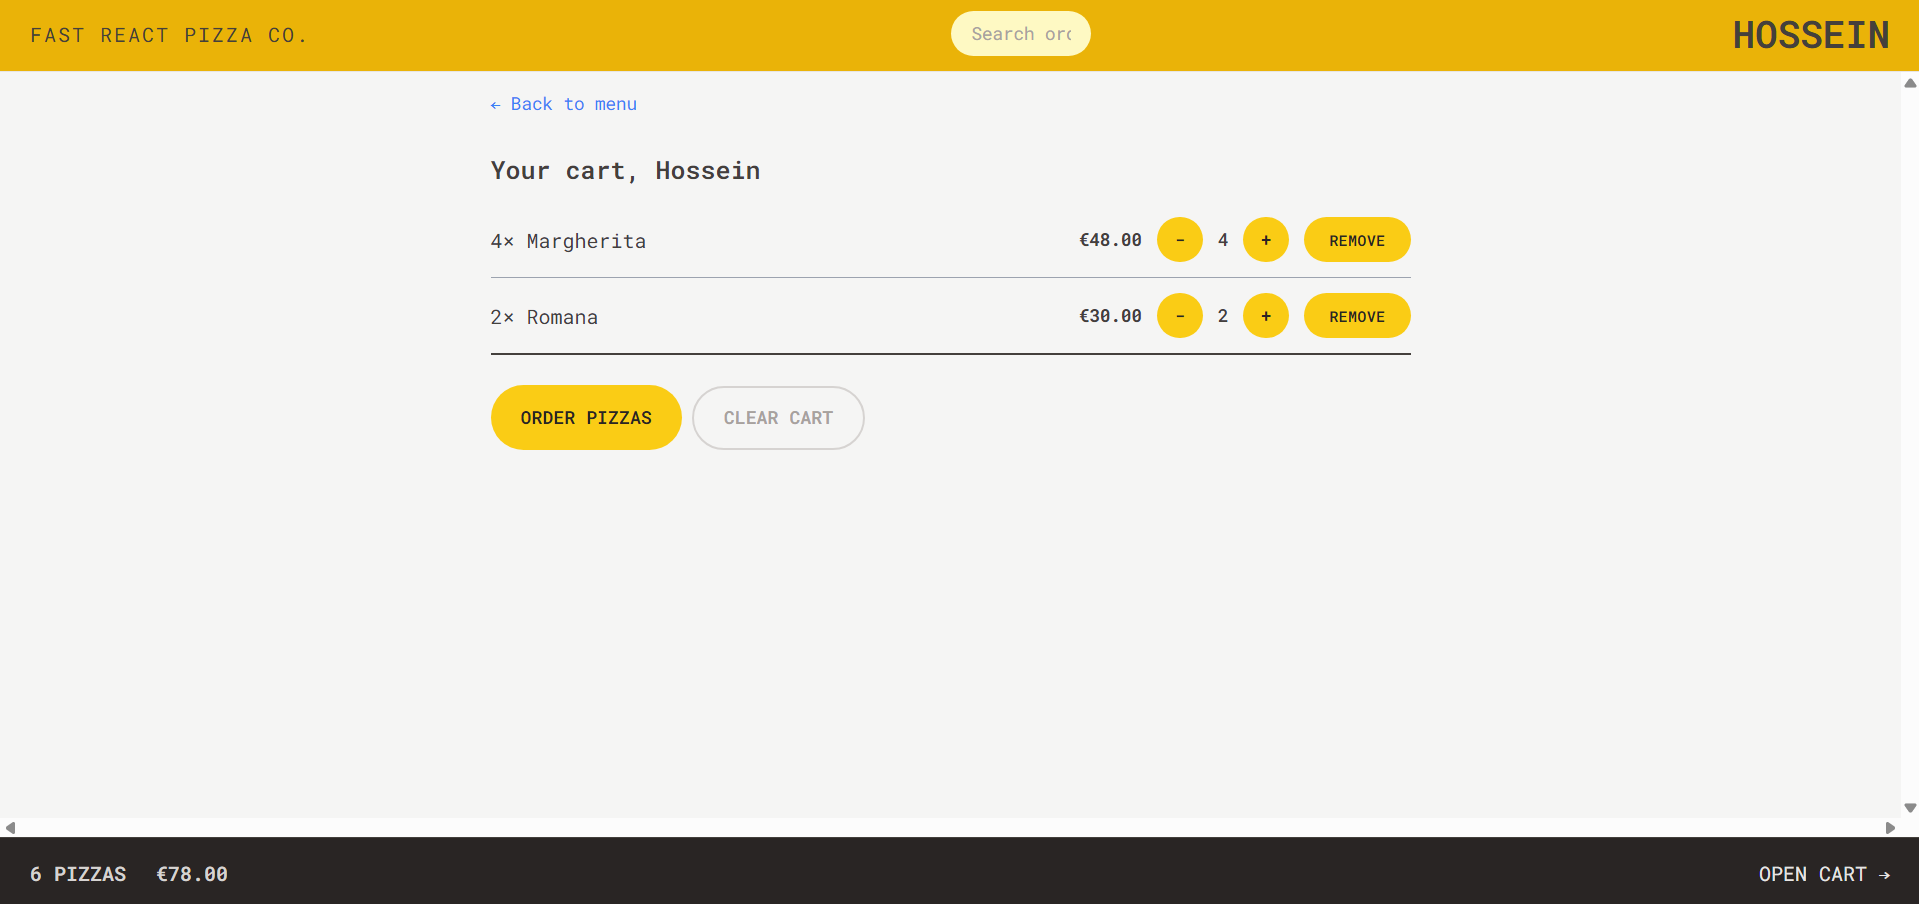
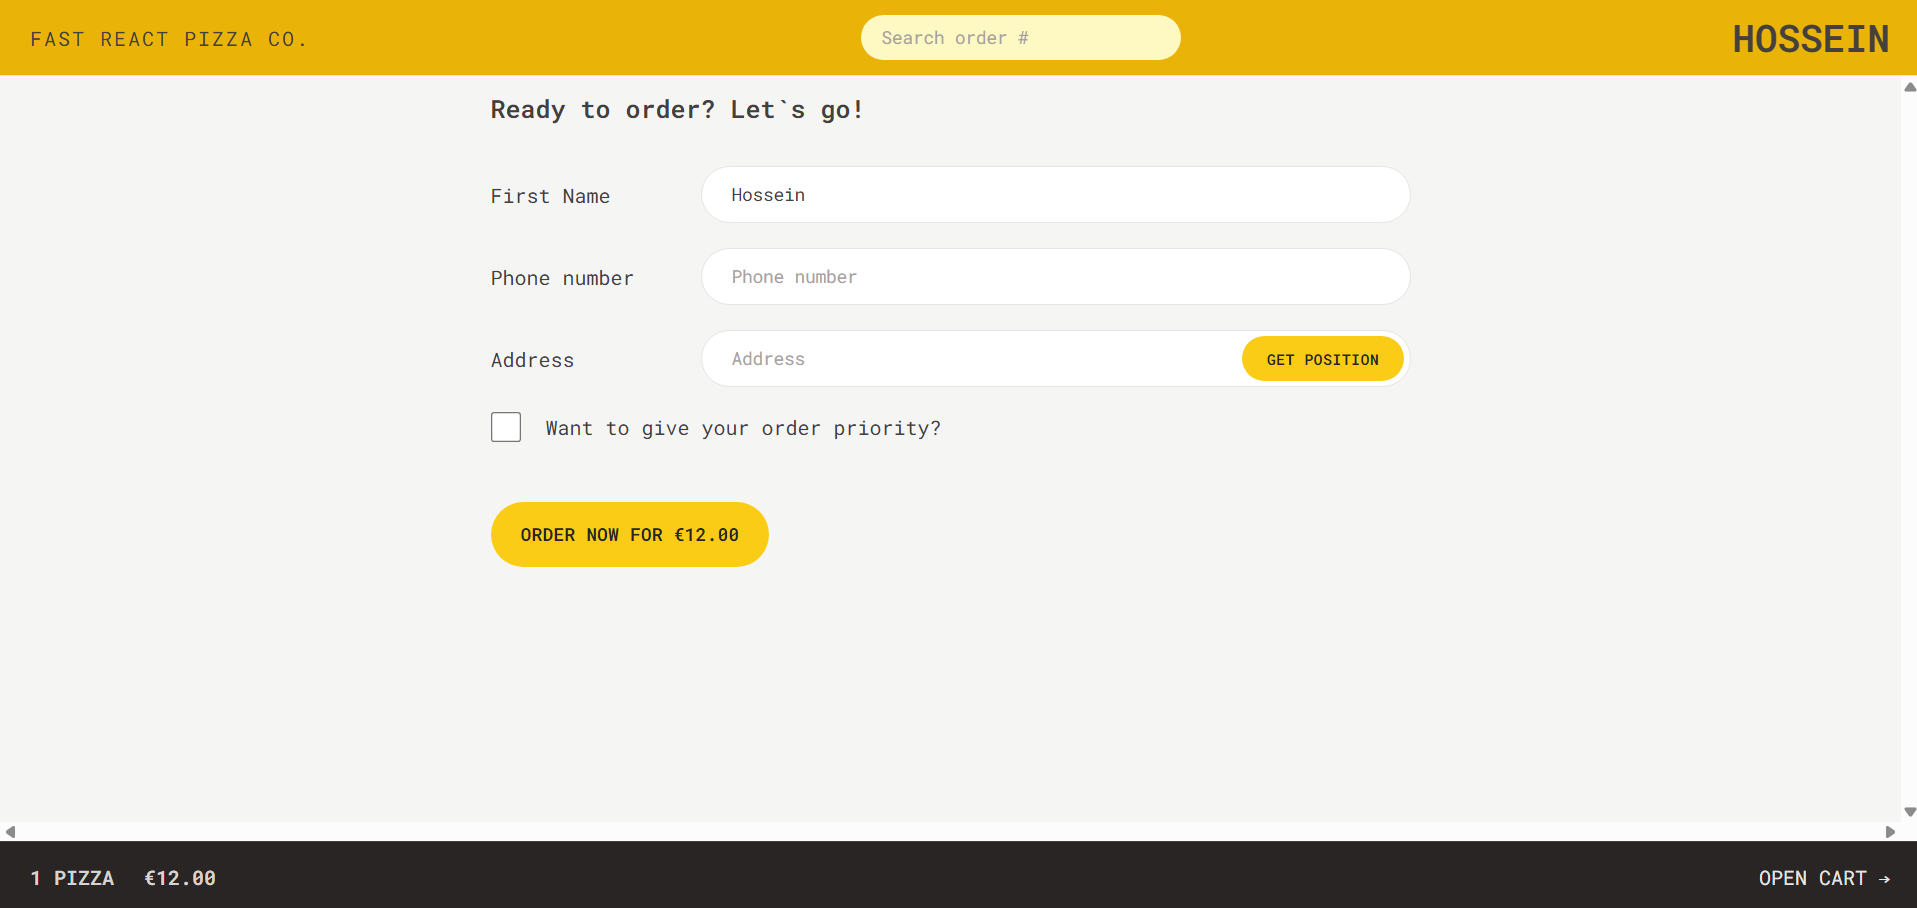
final V

diff --git a/README.md b/README.md
@@ -2,7 +2,7 @@
 
 A modern, responsive pizza ordering web application built with React, featuring a clean UI, seamless cart management, and real-time order tracking.
 
-![Demo Preview](./public/ScreenShots/menu.png)
+![Demo Preview](./public/ScreenShots/main.png)
 
 ## Overview
 
@@ -67,15 +67,11 @@ The application uses a mock API. To customize data:
 
 ### Menu Browsing
 
-![Pizza Menu](./public/ScreenShots/menu.png)
+![Pizza Menu](./public/ScreenShots/pizza-search.png)
 
 ### Cart Management
 
 ![Shopping Cart](./public/ScreenShots/cart.png)
-
-### Order Creation
-
-![Create Order](./public/ScreenShots/create-order.png)
 
 ### Order Tracking
 